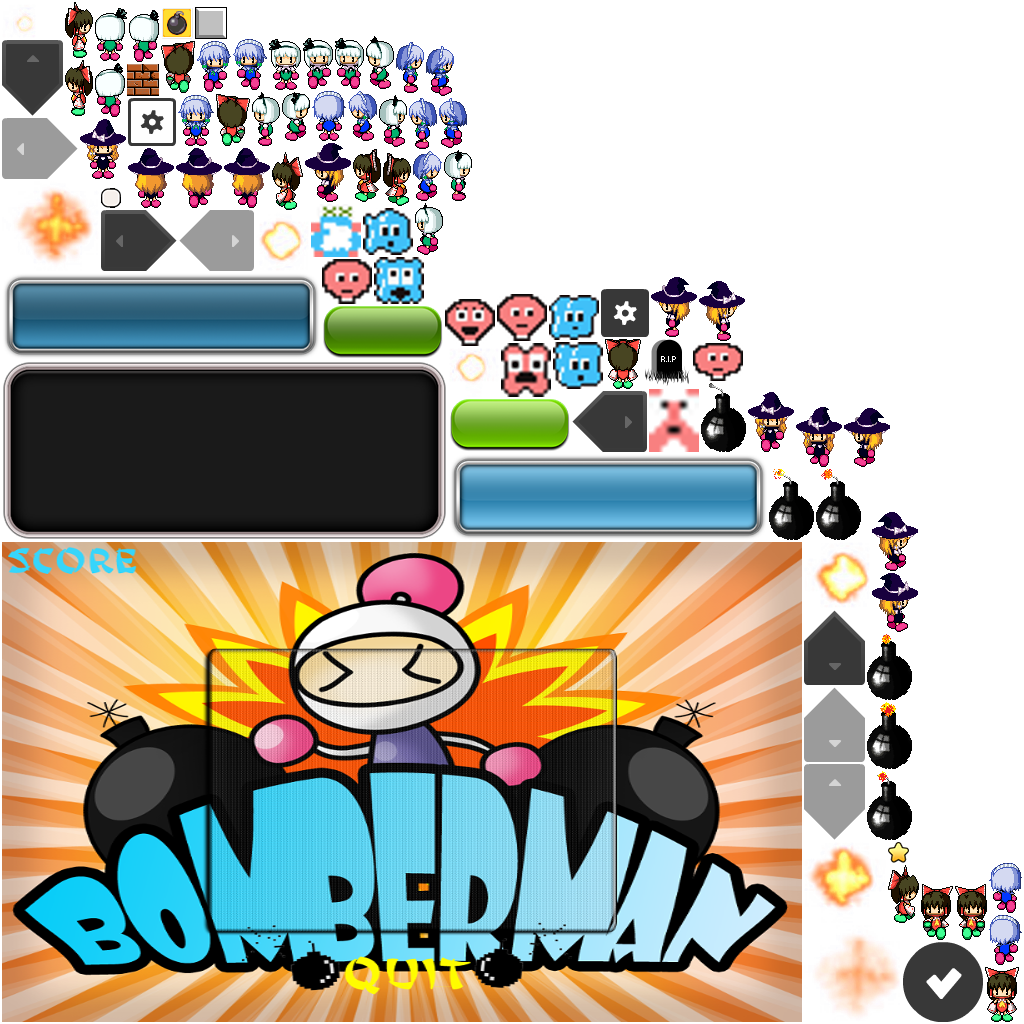
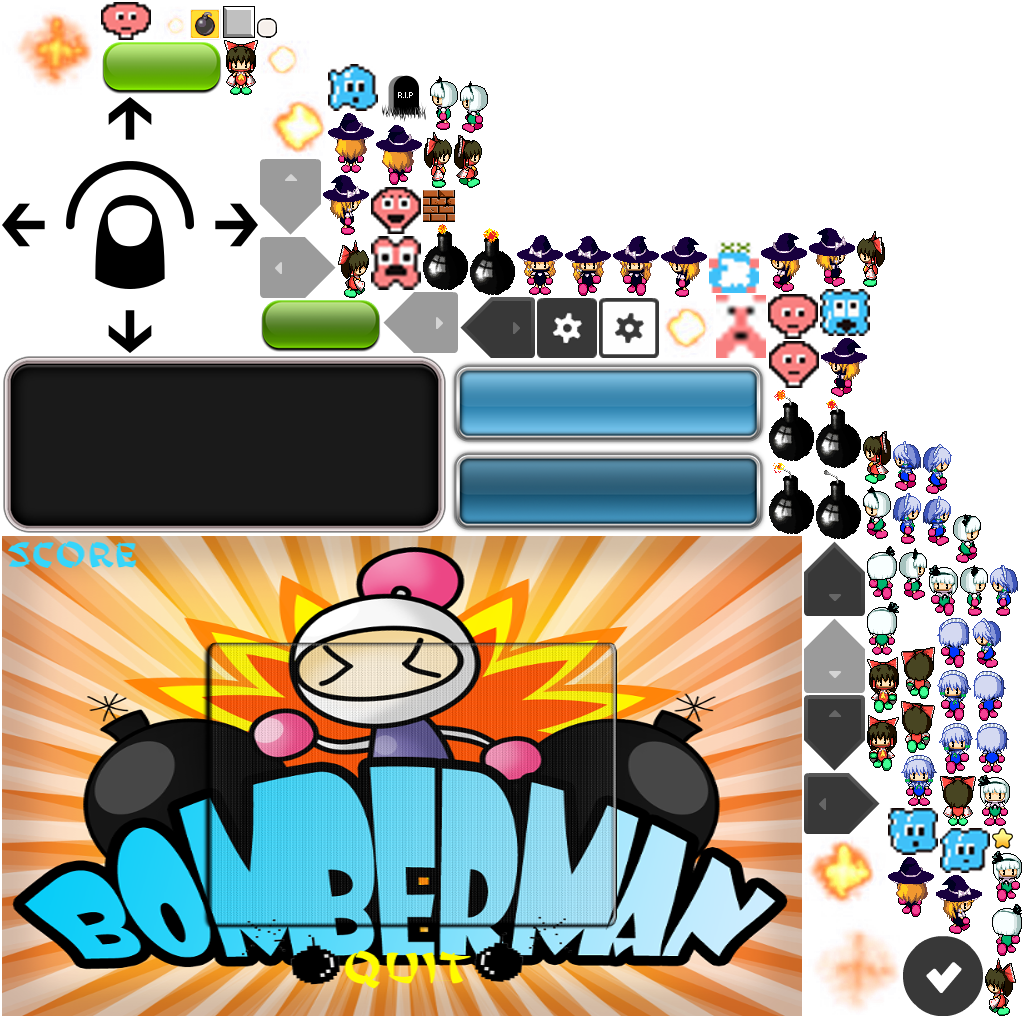
gamescreen settings panel

diff --git a/core/src/main/java/net/javaci/mobile/bomberman/core/view/GameScreen.java b/core/src/main/java/net/javaci/mobile/bomberman/core/view/GameScreen.java
@@ -46,6 +46,7 @@ public class GameScreen extends BomberManScreen {
 
     private LabyrinthWidget labyrinthWidget;
     private Direction previousFlingDirection;
+    private boolean isPreferedControlGamePad = true;
 
     public GameScreen(AbstractGame game, BomberManMediator mediator) {
         super(game, mediator);
@@ -119,16 +120,57 @@ public class GameScreen extends BomberManScreen {
         prepareGamePad();
 
         prepareBombButton();
+        
+        prepareSettingsButton();
 
         initializeBeforeGamePanel();
 
         prepareInputProcessor();
     }
 
+    private void prepareSettingsButton() {
+        Button settingsButton = findButton("settingsButton");
+        settingsButton.setVisible(true);
+        settingsButton.addListener(new ClickListener() {
+            @Override
+            public void clicked(InputEvent event, float x, float y) {
+                System.out.println("settings button clicked.");
+                final Group settingsPanel = (Group) findActor("settingsPanel");
+                settingsPanel.remove();
+                getRoot().addActor(settingsPanel);
+                settingsPanel.setVisible( ! settingsPanel.isVisible());
+                Button settingsGamePadButton = (Button) settingsPanel.findActor("settingsGamePad");
+                settingsGamePadButton.addListener(new ClickListener() {
+                    @Override
+                    public void clicked(InputEvent event, float x, float y) {
+                        isPreferedControlGamePad = true;
+                        findActor("gamePad").setVisible(isPreferedControlGamePad);
+                        settingsPanel.setVisible(false);
+                    }
+                });
+
+                Button settingsSwipeButton = (Button) settingsPanel.findActor("settingsSwipe");
+                settingsSwipeButton.addListener(new ClickListener() {
+                    @Override
+                    public void clicked(InputEvent event, float x, float y) {
+                        isPreferedControlGamePad = false;
+                        findActor("gamePad").setVisible(isPreferedControlGamePad);
+                        settingsPanel.setVisible(false);
+                    }
+                });
+            }
+        });
+        Vector2 pos = labyrinthWidget.getWallPosition(LabyrinthModel.NUM_COLS-1, LabyrinthModel.NUM_ROWS-1);
+        settingsButton.setPosition(pos.x, pos.y);
+    }
+
     private void prepareInputProcessor() {
         GestureDetector swipeGestureDetector = new GestureDetector(new GestureDetector.GestureAdapter() {
             @Override
             public boolean fling(final float velocityX, final float velocityY, int button) {
+                if (isPreferedControlGamePad) {
+                    return false;
+                }
                 final String username = UserSession.getInstance().getUsername();
                 final PlayerModel playerModel = world.getPlayerModel(username);
                 final Direction flingDirection = getDirection(velocityX, velocityY);
@@ -207,10 +249,6 @@ public class GameScreen extends BomberManScreen {
         stage.addActor(bombButton);
         bombButton.setWidth(bombButton.getWidth() * 2f);
         bombButton.setHeight(bombButton.getHeight() * 2f);
-        /*
-        Color color = bombButton.getColor();
-        color.a = 0.5f;
-        */
         bombButton.addListener(new ClickListener() {
             @Override
             public void clicked(InputEvent event, float x, float y) {
@@ -236,6 +274,7 @@ public class GameScreen extends BomberManScreen {
         Actor gamePad = findActor("gamePad");
         gamePad.remove();
         stage.addActor(gamePad);
+        gamePad.setVisible(isPreferedControlGamePad);
 
         findButton("gamePadUpButton").addListener(new InputListener() {
             @Override

diff --git a/core/src/main/java/net/javaci/mobile/bomberman/core/view/widget/LabyrinthWidget.java b/core/src/main/java/net/javaci/mobile/bomberman/core/view/widget/LabyrinthWidget.java
@@ -55,6 +55,10 @@ public class LabyrinthWidget extends Actor {
         }
     }
 
+    public Vector2 getWallPosition(int x, int y) {
+        return new Vector2((gameAreaBounds.x / numCols) * x, (gameAreaBounds.y / numRows) * y);
+    }
+
     public Vector2 getPlayerInitialPosition(int playerIndex) {
         float width = gameAreaBounds.x / numCols;
         float height = gameAreaBounds.y / numRows;
